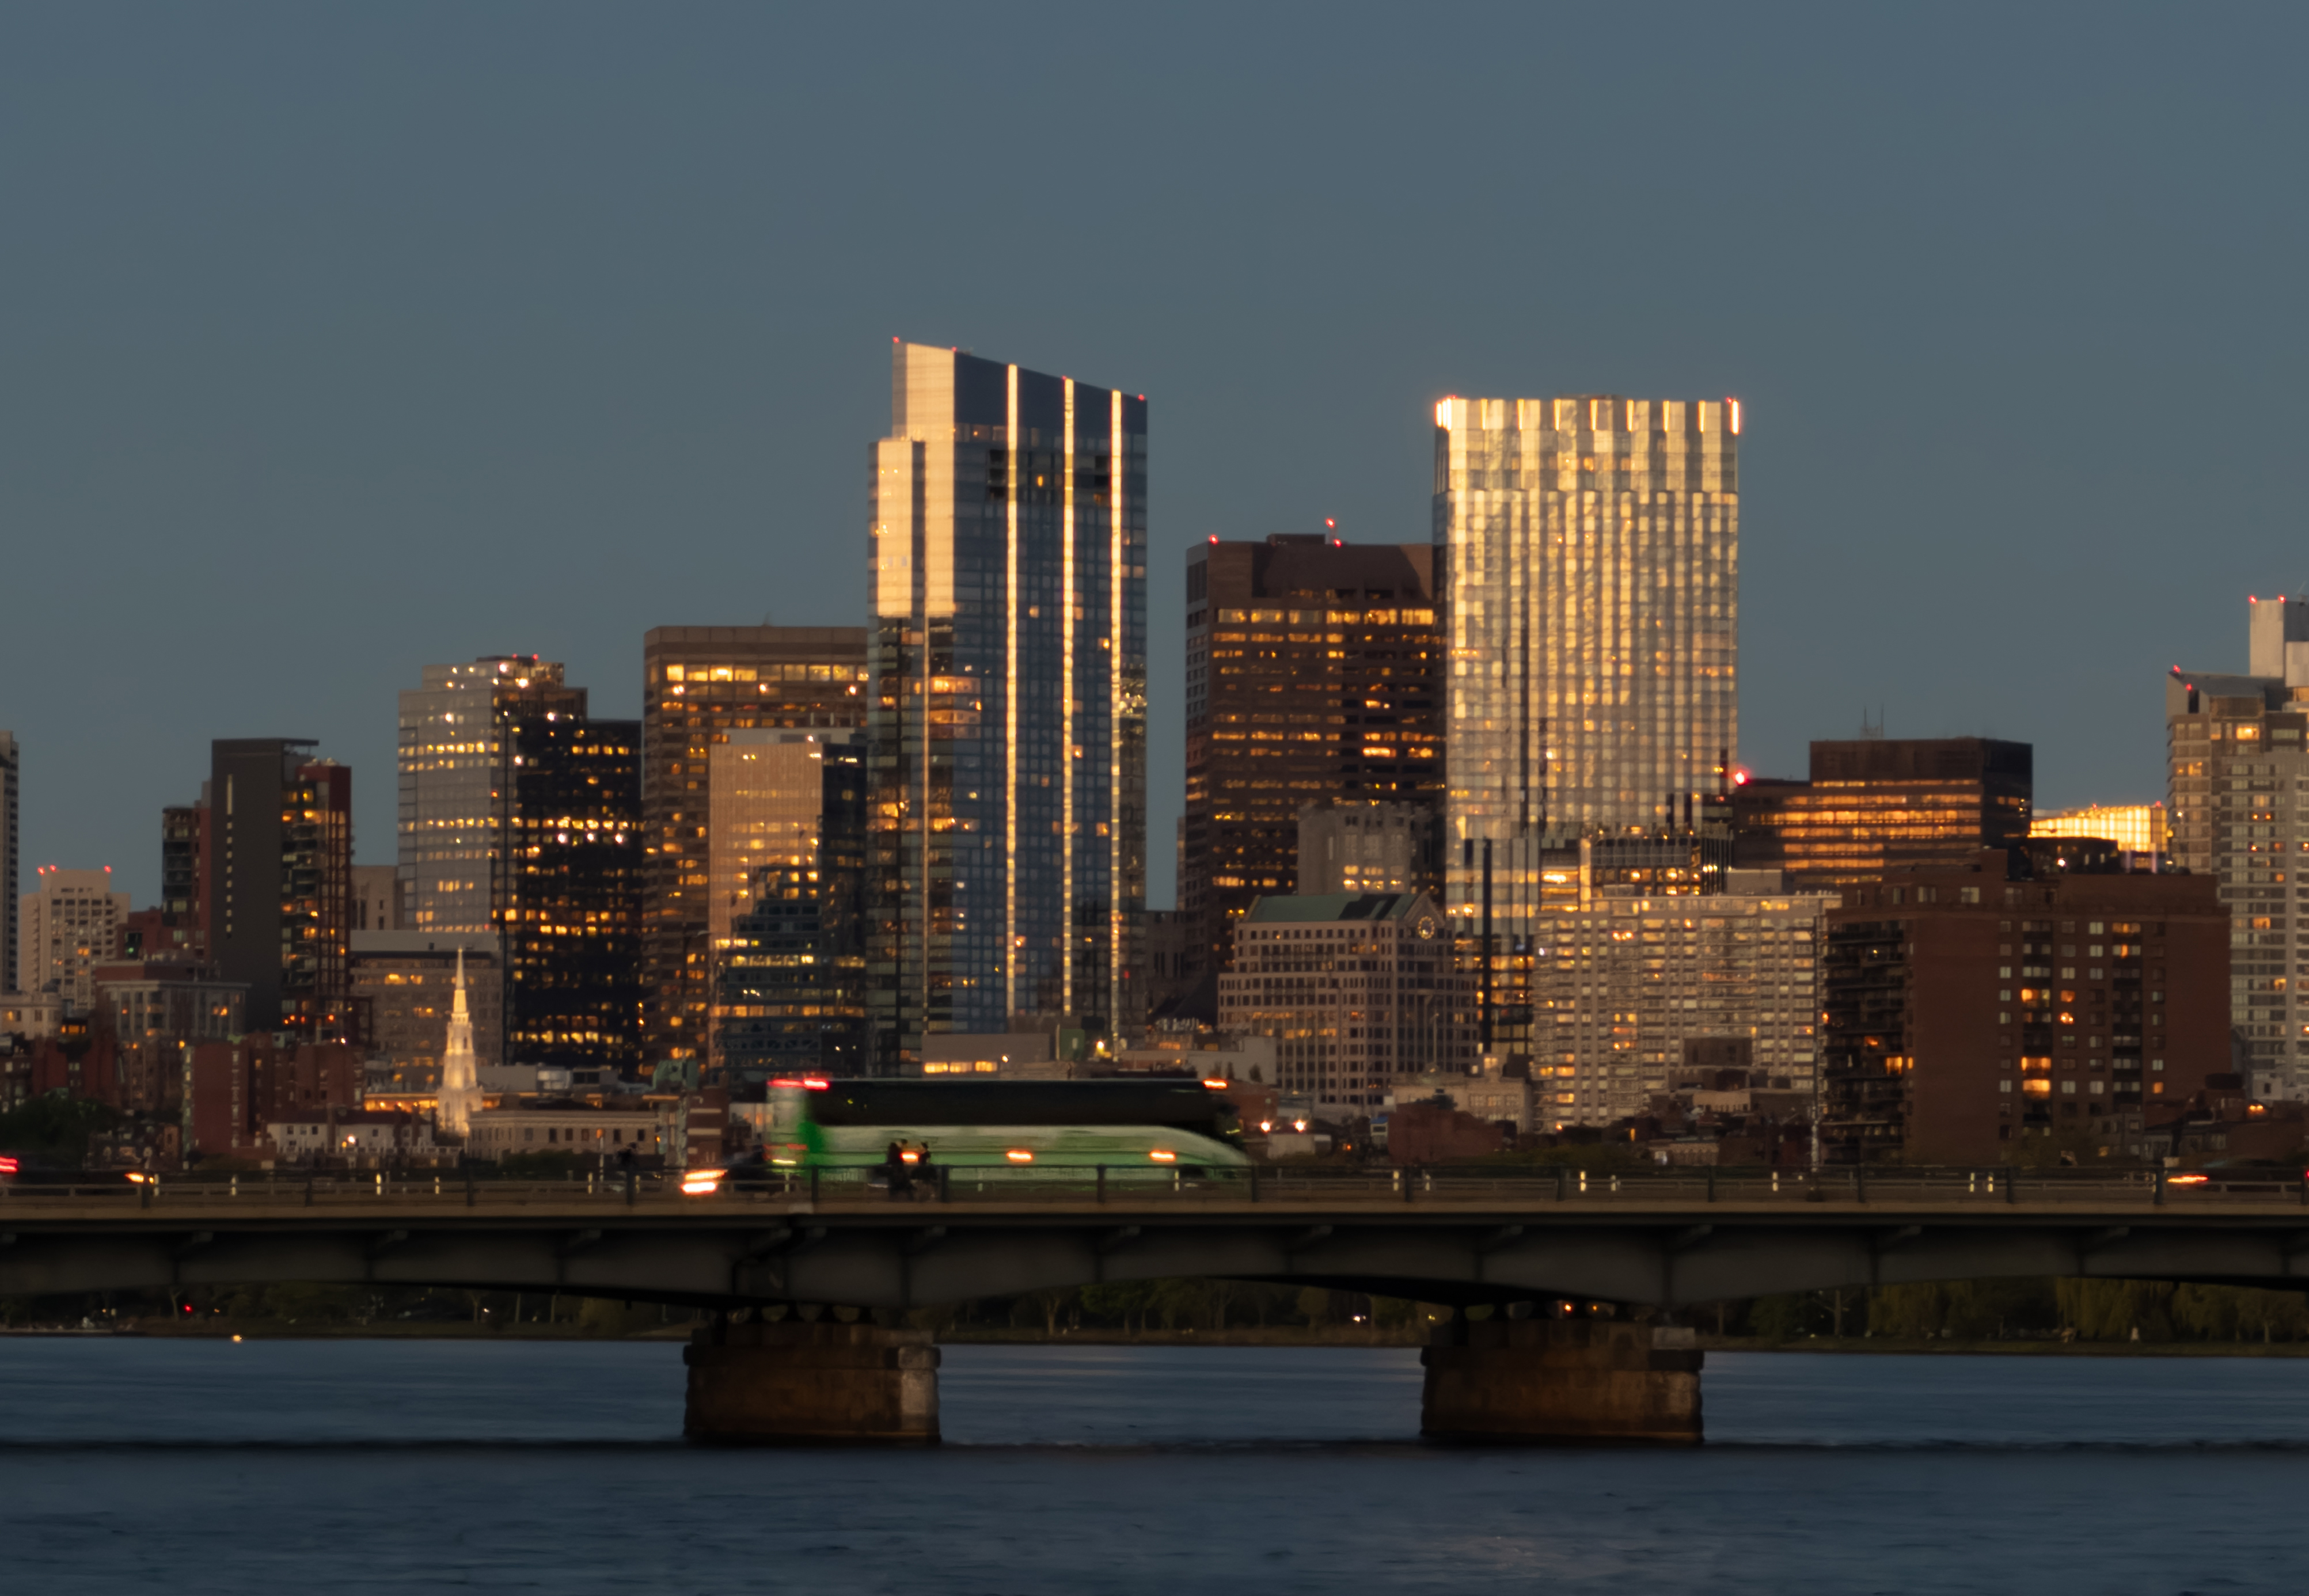
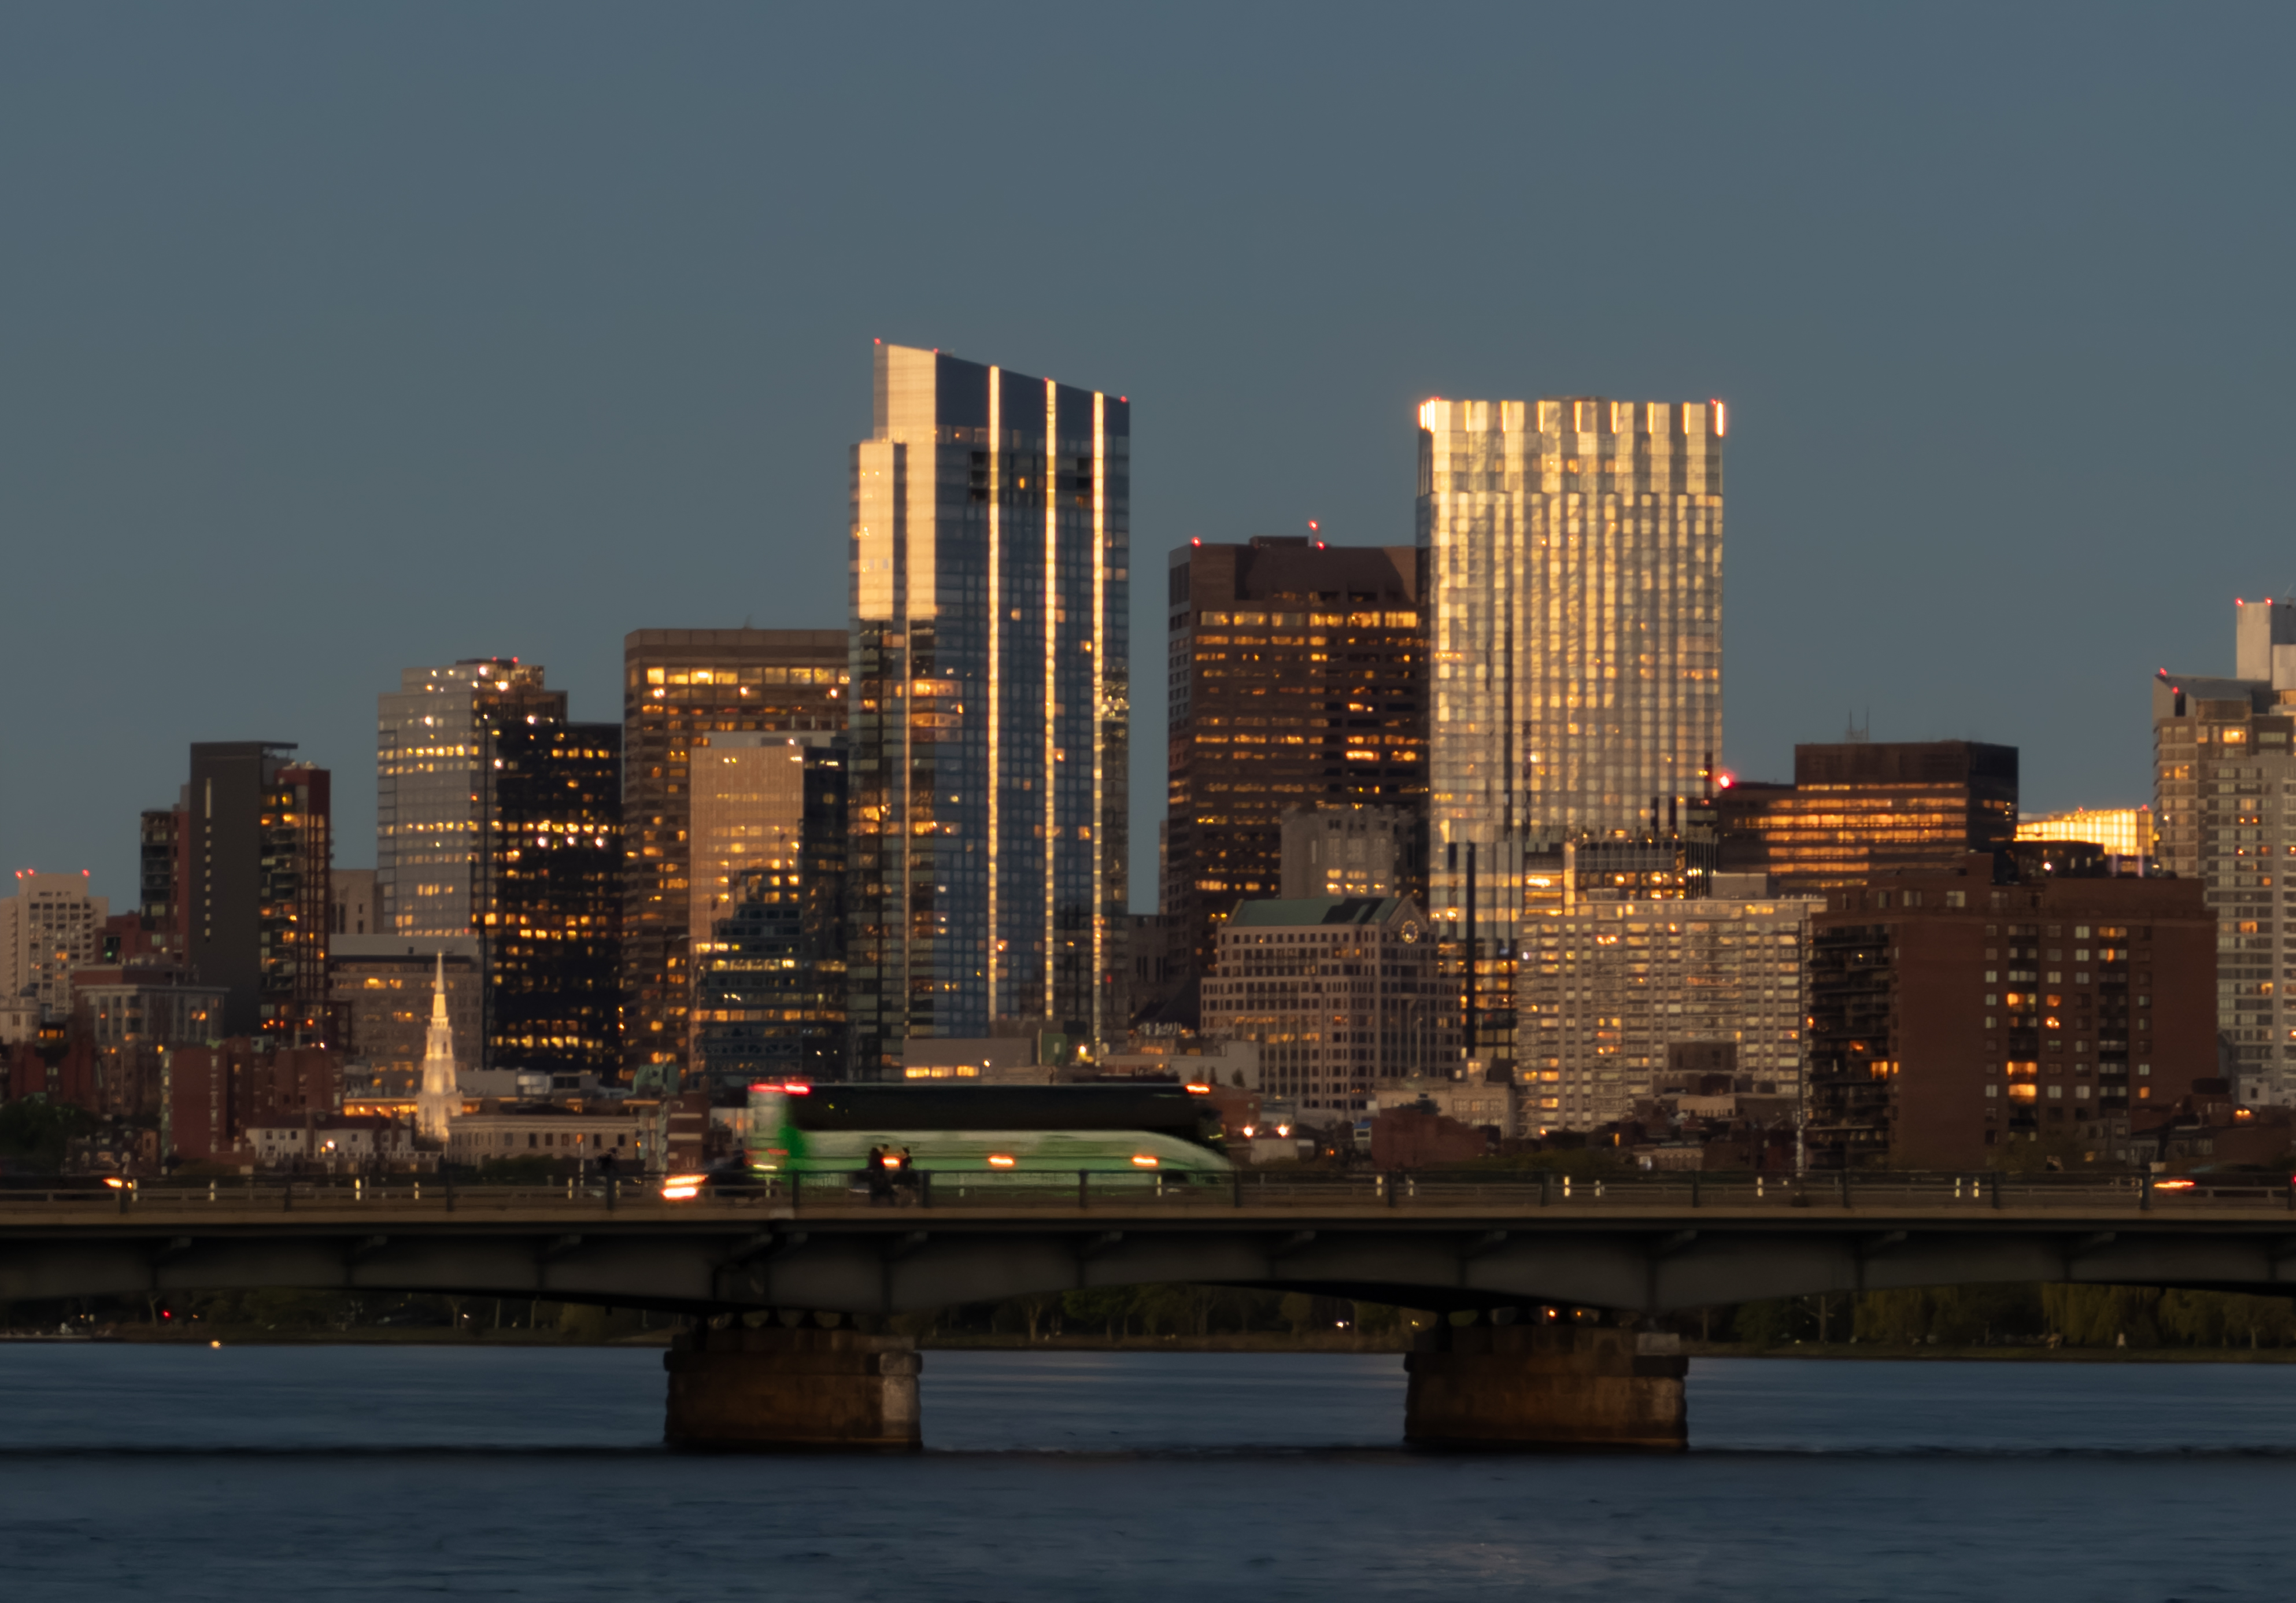
Updated individual photo page formatting

diff --git a/generate_photo_md.py b/generate_photo_md.py
@@ -64,10 +64,9 @@ def build_acquisition(exif: dict) -> str | None:
     
     NAMES = {
         "105.0 mm f/2.8":"AF Micro NIKKOR 105mm f/2.8",
-        "NIKKOR Z 24-120mm f/4 S":"NIKKOR Z 24-120mm f/4 S",
         "135.0 mm f/2.0":"Rokinon 135mm f/2",
         "NIKON Z 6":"Nikon Z6",
-        "iPhone 17 Pro back triple camera 16.891mm f/2.8":"telephoto lens"
+        "iPhone 17 Pro back triple camera 16.891mm f/2.8":"4x lens"
     }
 
     # First line: device check
@@ -81,7 +80,7 @@ def build_acquisition(exif: dict) -> str | None:
     fl_components = [int(num) for num in (exif['focal']).split("/")]
     focal_length = fl_components[0] if len(fl_components) == 1 else fl_components[0]/fl_components[1]
 
-    line2 = f"Shot at f/{aperture} aperture, {format_exposure(exif['exposure'])} exposure, and ISO {exif['iso']} {'@'+str(focal_length)+'mm.' if not 'iPhone' in model else '.'}"
+    line2 = f"Shot at f/{aperture} aperture, {format_exposure(exif['exposure'])} exposure, and ISO {exif['iso']}{' @'+str(focal_length)+'mm.' if not 'iPhone' in model else '.'}"
 
     return f"{line1}\n{line2}"
 

diff --git a/src/content/photos/City Lights.md b/src/content/photos/City Lights.md
@@ -4,6 +4,6 @@ category: photography
 image: ../../assets/photos/photography/City Lights.jpg
 date: 2026-05-12
 acquisition: |
-  Taken with iPhone 17 Pro using the telephoto lens.
-  Shot at f/2.8 aperture, 1/20s exposure, and ISO 640 .
+  Taken with iPhone 17 Pro using the 4x lens.
+  Shot at f/2.8 aperture, 1/20s exposure, and ISO 640.
 ---